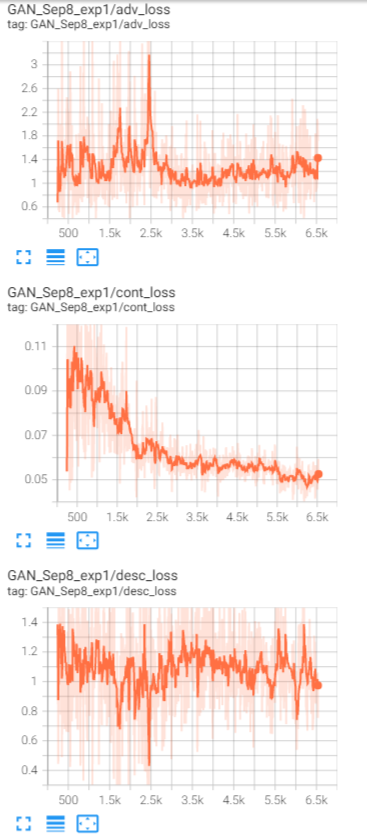
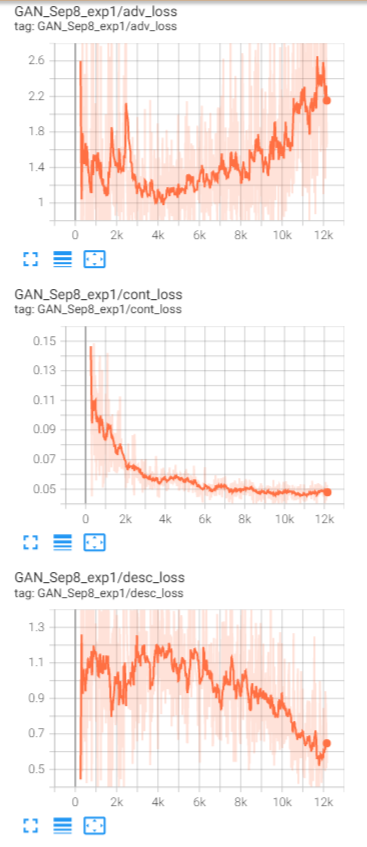
update results to 400 epochs

Changed region(s): [[0.0, 0.0, 1.0, 1.0]]

diff --git a/README.md b/README.md
@@ -29,11 +29,15 @@ At epoch 100
 ![2d field](results/Sep8/epoch100_gan_super_res_field2d_compare.png)
 ![spectrum](results/Sep8/epoch100_gan_super_res_vorticity_spec_compare.png)
 
-At epoch 200, now GAN super-resolution model output looks quite realstic. The fine structure is very close to the high resolution image. I was expecting the super-resolution model to generate some realistic fine structure, but not in the exact same location as the actual high resolution image as this information could be lost in the low resolution image. But at 4x scaling factor, it could be the case that this information is still preserved. GAN helps the model to focus on learning small scale structure. This can also been seen from 
+At epoch 200, now GAN super-resolution model output starts to look realstic. The fine structure is very close to the high resolution image. I was expecting the super-resolution model to generate some realistic fine structure, but not in the exact same location as the actual high resolution image as this information could be lost in the low resolution image. But at 4x scaling factor, it could be the case that most information is still preserved. GAN helps the model to focus on learning small scale structure. This can also been seen from 
 ![2d field](results/Sep8/epoch200_gan_super_res_field2d_compare.png)
 ![spectrum](results/Sep8/epoch200_gan_super_res_vorticity_spec_compare.png)
 
+At epoch 400, the GAN super-resolution output is quite realistic. It also generates some details not existing in the original high resolution image. The vorticity spectrum is very close to original high resolution image's spectrum, except at the highest wavenumber.
+![2d field](results/Sep8/epoch400_gan_super_res_field2d_compare.png)
+![spectrum](results/Sep8/epoch400_gan_super_res_vorticity_spec_compare.png)
 
-Learning curve. Content loss keeps decreasing, which means GAN helps generator to generate super-resolution image exactly the same as original high-resolution image. Adversarial/Disriminator loss fluctuates.
+
+Learning curve. Content loss keeps decreasing, which means GAN helps generator to generate super-resolution image exactly the same as original high-resolution image. Adversarial loss decreases first, but then increases with some fluctuation.
 
 ![learning curve](results/Sep8/learning_curve.png)
